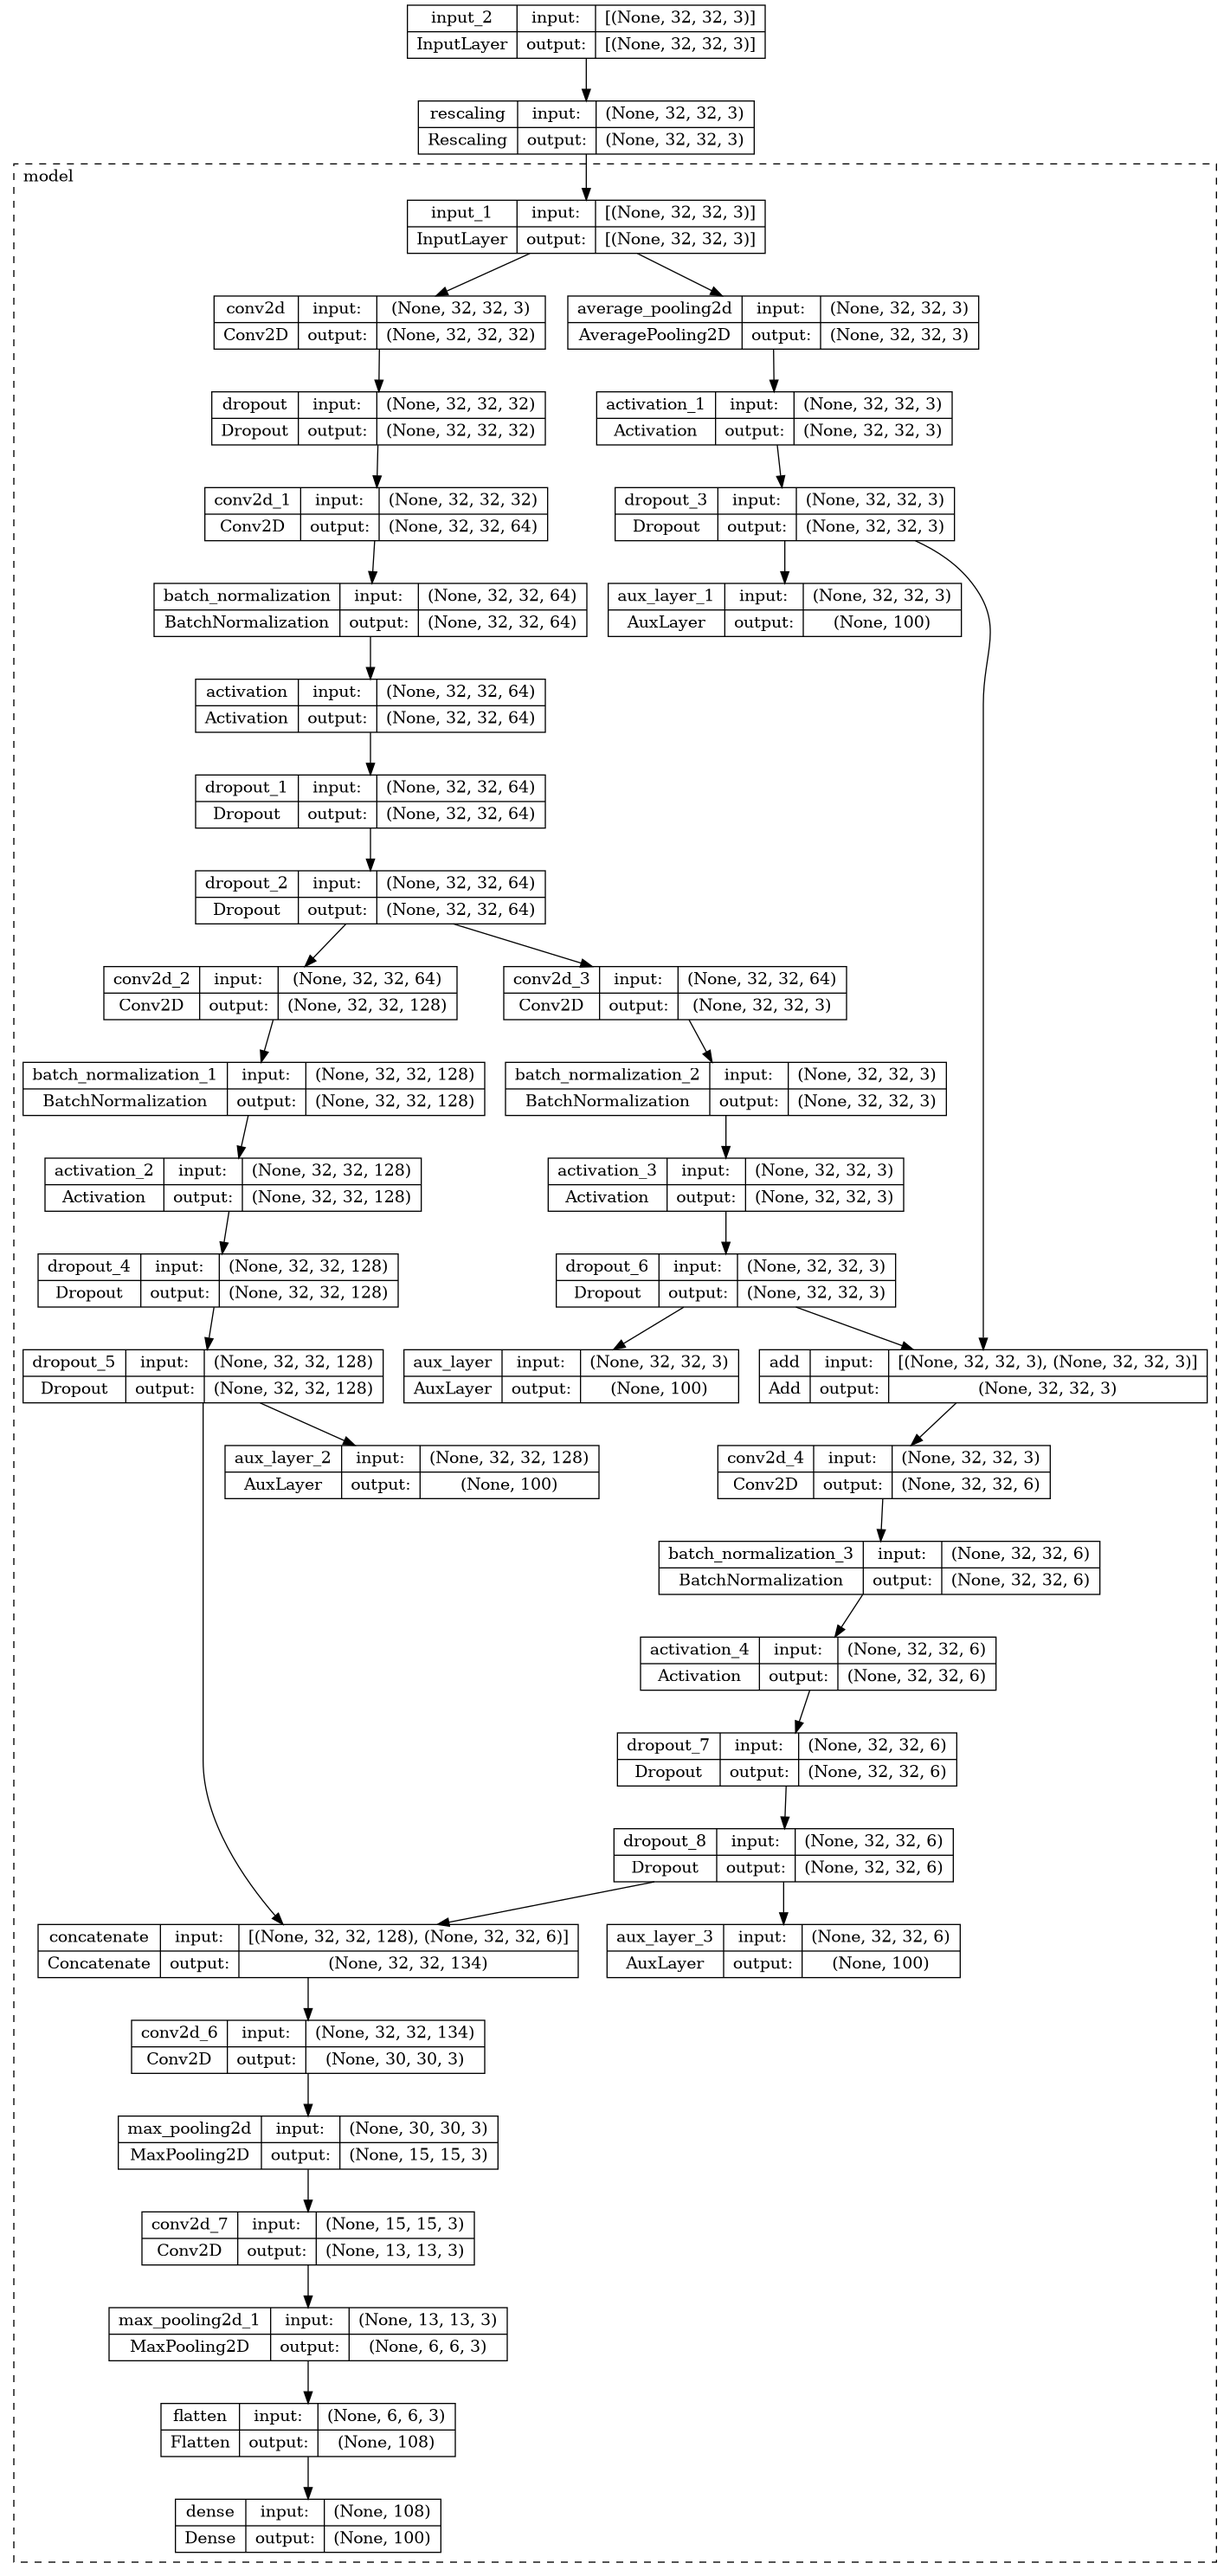
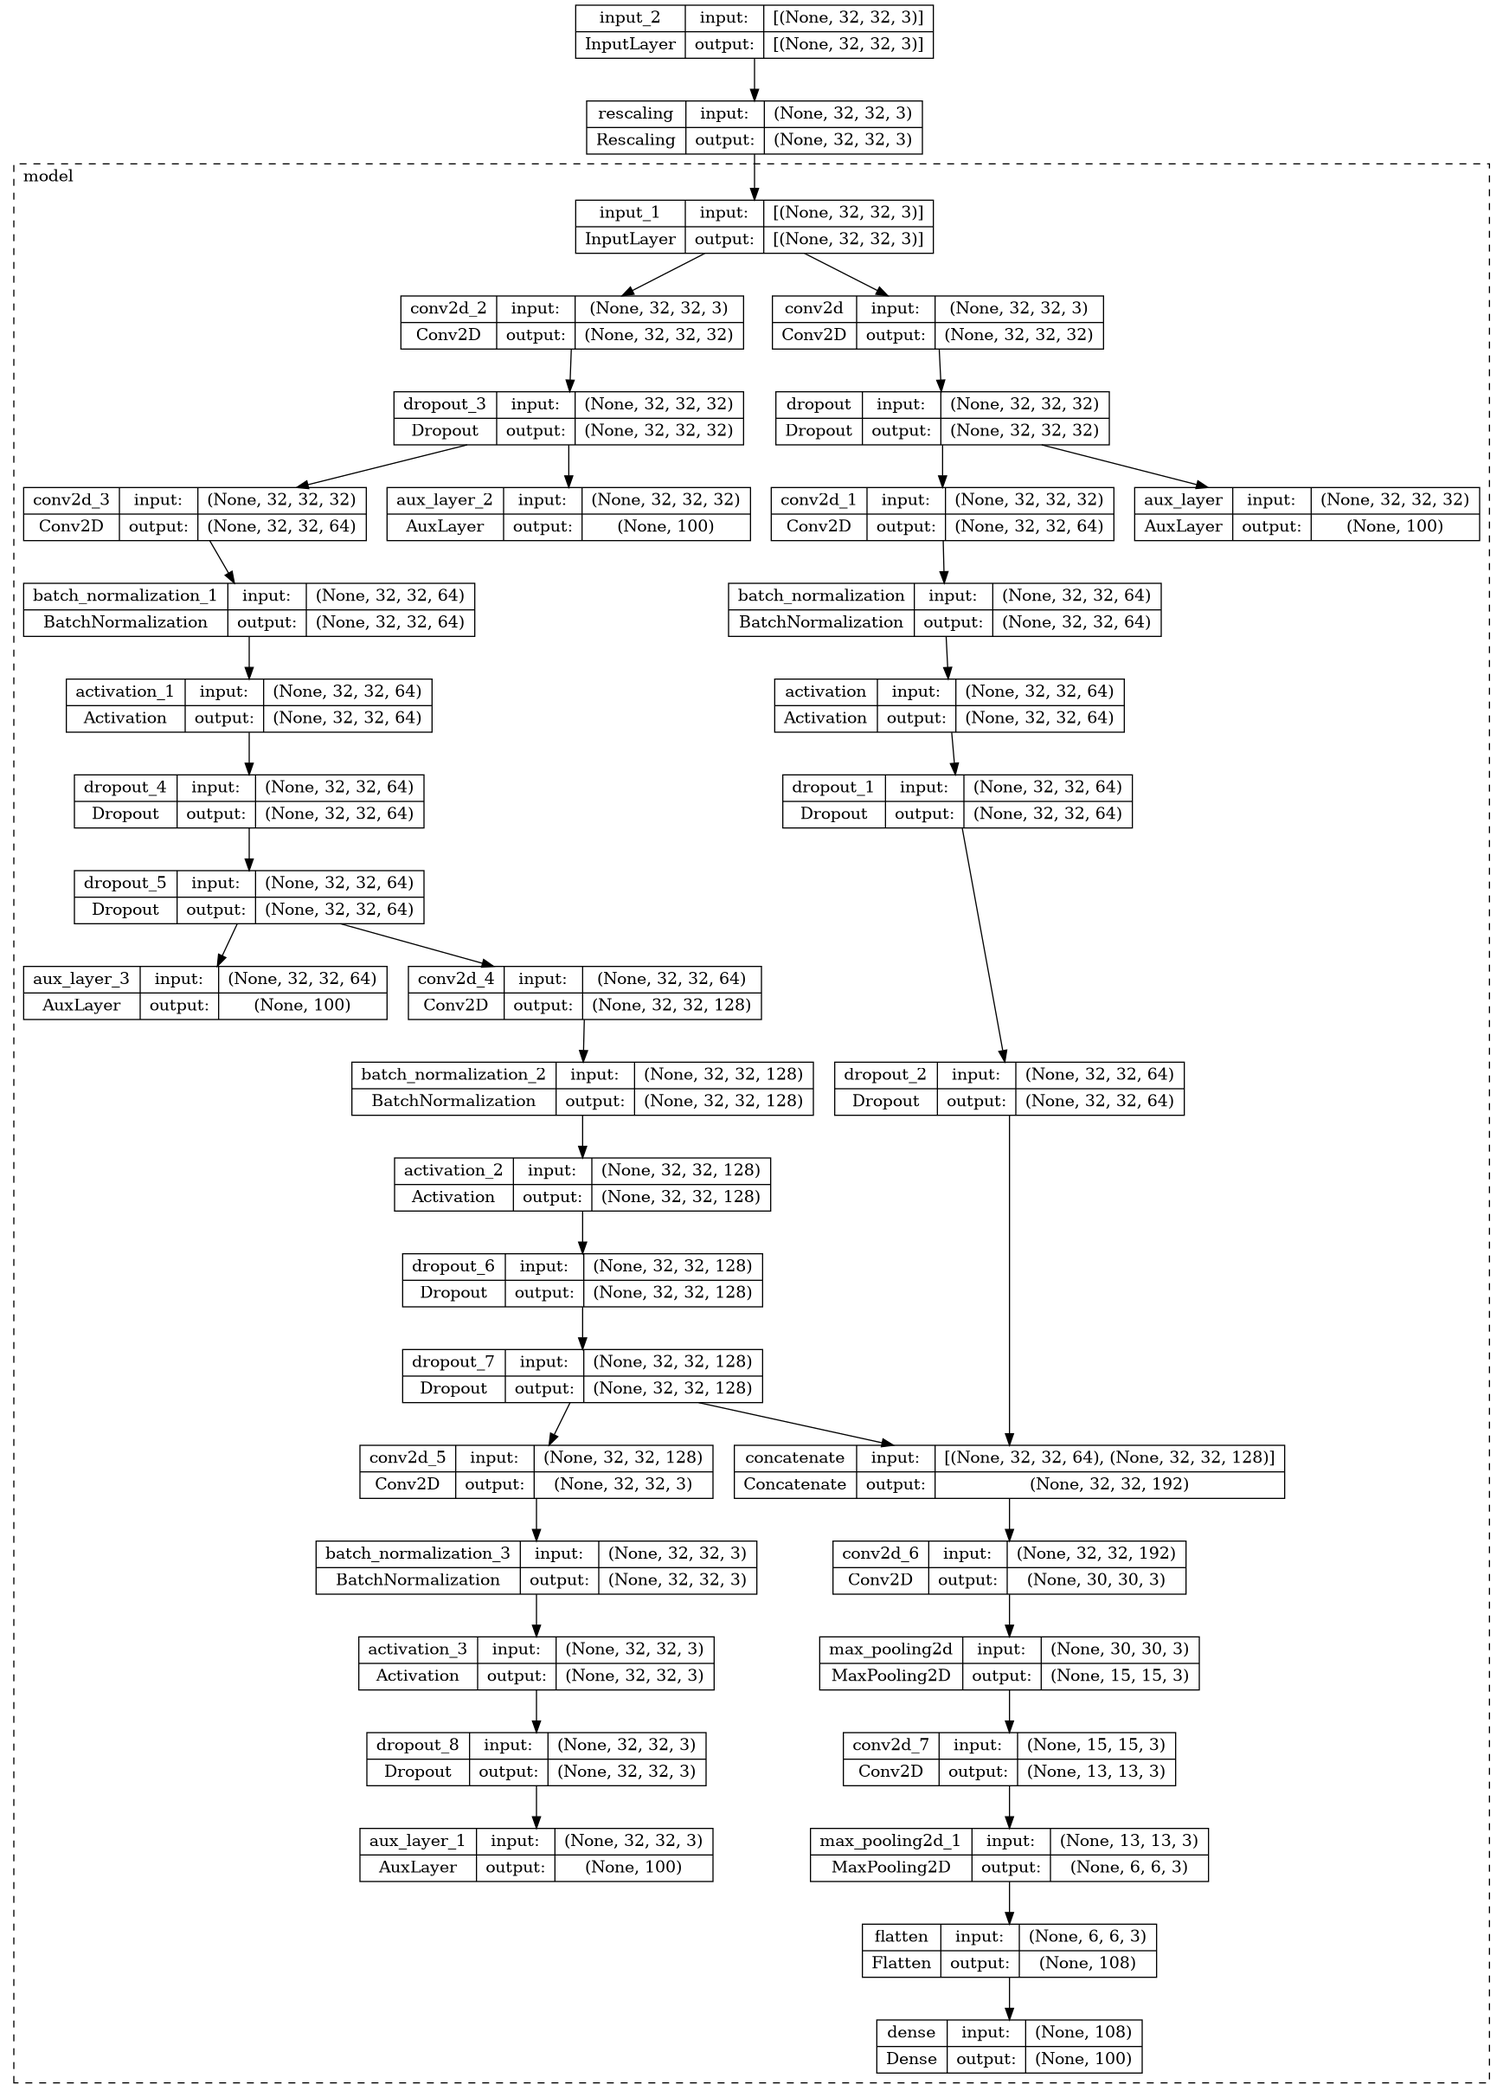
Refactor AuxLayer class to dynamically build layers based on input shape

Changed region(s): [[0.0, 0.0, 0.9909, 1.0], [0.9289, 0.9905, 0.9909, 1.0], [0.0, 0.0619, 0.0619, 0.0929]]

diff --git a/graph_cnn/model/model.py b/graph_cnn/model/model.py
@@ -11,23 +11,35 @@ def set_seed(seed):
     tf.random.set_seed(seed)
     random.seed(seed)
 
+import tensorflow as tf
+
 class AuxLayer(tf.keras.layers.Layer):
-    def __init__(self, num_classes,trainable=True):
+    def __init__(self, num_classes, trainable=True):
         super(AuxLayer, self).__init__()
         self.num_classes = num_classes
-        self.conv1 = tf.keras.layers.Conv2D(32,(3,3))
-        self.pool1 = tf.keras.layers.MaxPooling2D()
-        self.conv2 = tf.keras.layers.Conv2D(32,(3,3))
-        self.flatten = tf.keras.layers.Flatten()
-        self.dense = tf.keras.layers.Dense(num_classes, activation='softmax')
+        self.layers_list = []
+
+    def build(self, input_shape):
+        current_shape = input_shape
+        while all(dim >= 5 for dim in current_shape[1:3]):
+            layer = tf.keras.layers.Conv2D(32, (3, 3), padding='same', activation='relu')
+            self.layers_list.append(layer)
+            current_shape = layer.compute_output_shape(current_shape)
+
+            layer = tf.keras.layers.MaxPooling2D()
+            self.layers_list.append(layer)
+            current_shape = layer.compute_output_shape(current_shape)
+
+        self.layers_list.append(tf.keras.layers.Flatten())
+        self.layers_list.append(tf.keras.layers.Dense(self.num_classes, activation='softmax'))
+
+        super(AuxLayer, self).build(input_shape)
 
     def call(self, inputs):
-        inputs = self.conv1(inputs)
-        inputs = self.pool1(inputs)
-        inputs = self.conv2(inputs)
-        inputs = self.pool1(inputs)
-        inputs = self.flatten(inputs)
-        return self.dense(inputs)
+        for layer in self.layers_list:
+            inputs = layer(inputs)
+        return inputs
+
 
 def create_model(graph, input_shape=(224, 224, 3),num_classes=100):
     nodes = {}
